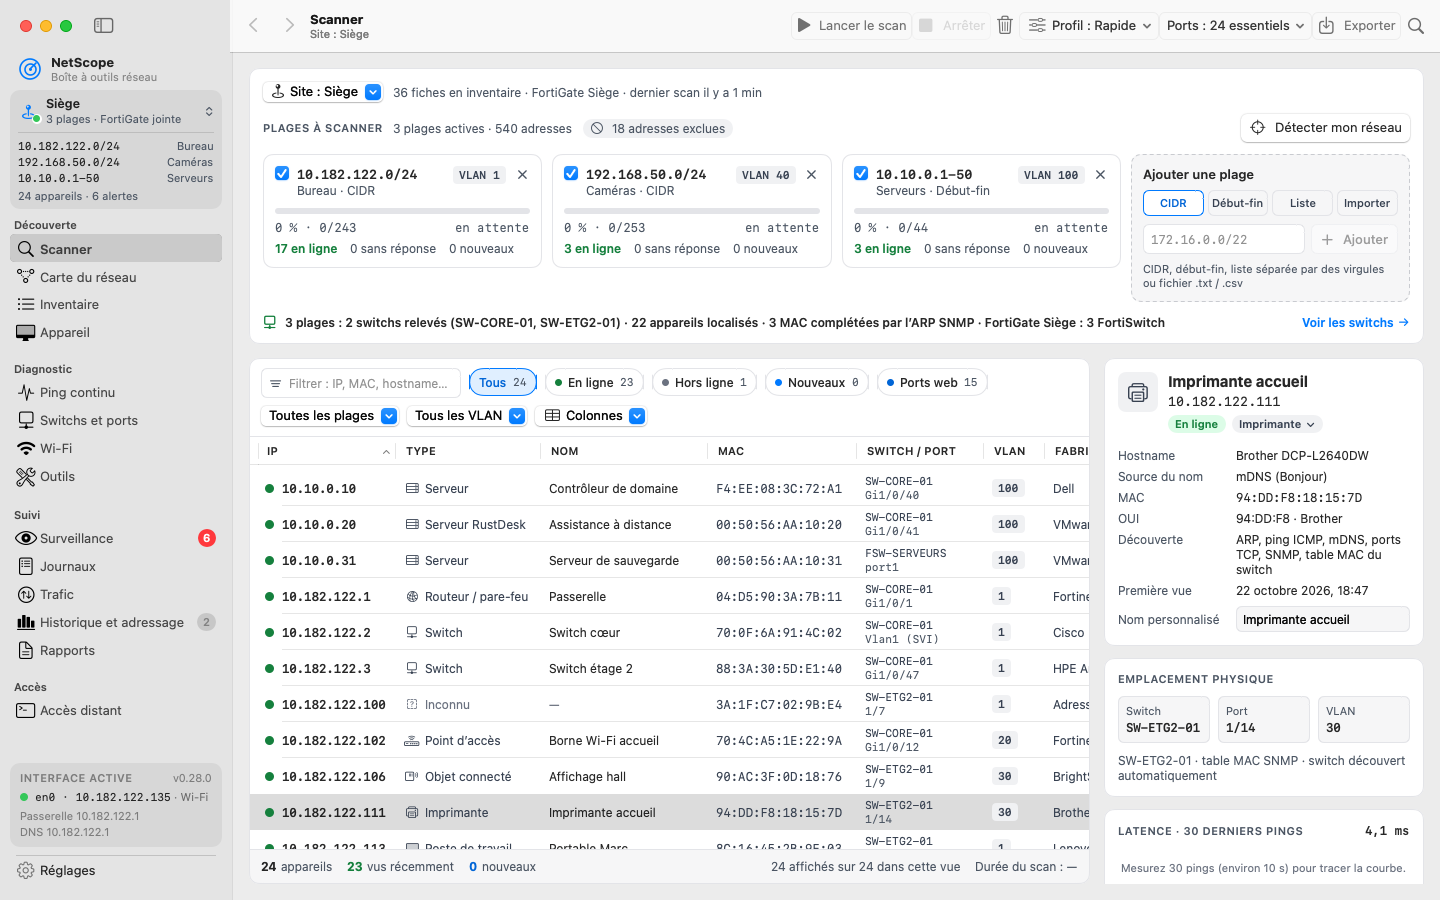
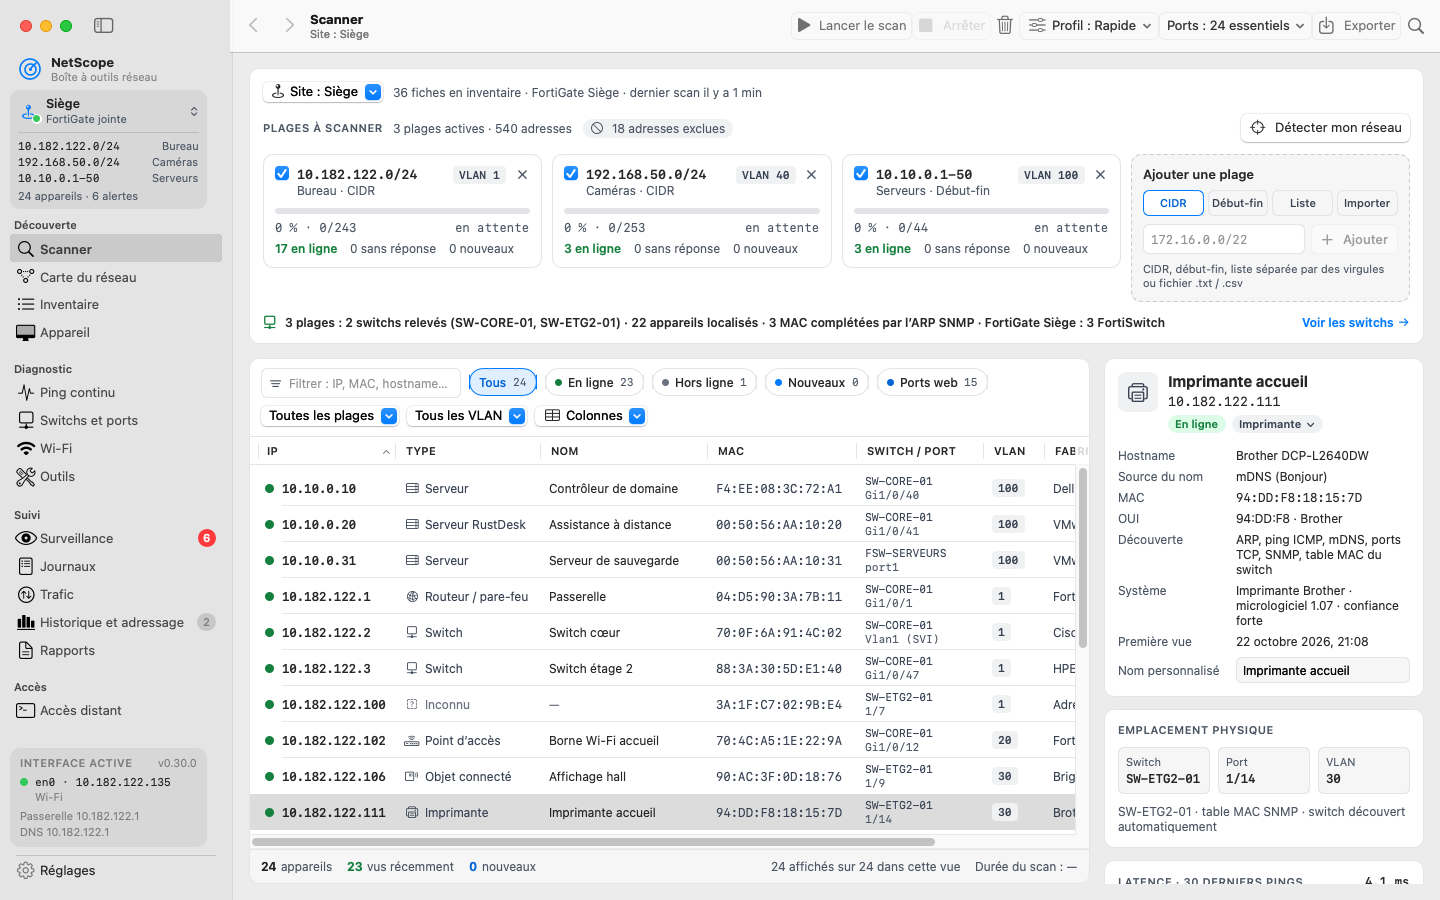
Version 0.30.0
Empreinte légère des services et du système (note 68), scan de ports UDP
ciblé (note 69), vérificateur de certificat TLS (note 70) et contrôleurs
UniFi, Omada et Meraki en lecture seule (note 77).

- Info.plist : 0.30.0 (41).
- CHANGELOG : section 0.30.0 avec ses limites connues.
- README : version et nouveautés de la 0.30.0.
- A-FAIRE : notes 68, 69, 70 et 77 livrées, priorités et index à jour.
- docs/capture.png refaite (ligne « Système » du panneau de détail).

diff --git a/docs/A-FAIRE.md b/docs/A-FAIRE.md
@@ -7,7 +7,7 @@
 
 ## Priorités (revues le 5 novembre 2026, réorganisées avec les notes 45 à 79 après l’analyse du marché)
 
-Notes 1 à 5 : livrées dans la 0.3.0 ; note 18 dans la 0.3.1 ; notes 8, 19, 20 et 9 dans la 0.4.0 ; types Console de jeu et Domotique dans la 0.4.1 ; notes 12, 21, 17 et 16 dans la 0.5.0 ; notes 15 et 14 dans la 0.6.0 ; notes 7 et 22 dans la 0.7.0 ; notes 13 et 23 dans la 0.8.0 ; note 24 dans la 0.9.0 ; note 25 dans la 0.10.0 ; notes 26 et 27 dans la 0.11.0 ; note 28 et correction de la Carte dans la 0.12.0 ; notes 34, 33, 31 et 36 dans la 0.13.0 ; notes 32, 30, 37 et 38 dans la 0.14.0 ; notes 49, 48, 45 et 52 dans la 0.15.0 ; notes 46 et 47, et correctif iCloud de Vitesse des disques, dans la 0.16.0 ; notes 29, 39 et 54 dans la 0.17.0 ; notes 50, 51, 53, 55 et 56 dans la 0.18.0 ; notes 42 et 10 dans la 0.20.0 ; notes 41 et 43, et la note 11 en partie (pause par cible, tableau MTR, écran vide), dans la 0.21.0 ; note 57 dans la 0.22.0 ; notes 35 et 60 dans la 0.23.0 ; erreurs récentes des ports dans la 0.23.1 ; notes 59, 73, 74 et 79, la partie « Trafic » de la note 78 et le navigateur SNMP dans la 0.25.0 ; notes 58, 65, 66 et 71, et les parties « Test MTU », « Ping continu », « Inventaire », « Wake-on-LAN », « Alertes » et « Accès distant » de la note 78 dans la 0.26.0 ; note 6 (RustDesk) dans la 0.26.1 ; tableau de bord du serveur RustDesk (note 6), « Ouvrir une fiche » et saisie à la main dans Appareil, et correctif des clients Wi-Fi de FortiOS 7.4.13 dans la 0.26.2 ; notes 62, 80, 81, 82 et 83 et le reste de la note 78 (Surveillance, Carte du réseau, Analyse, Wi-Fi ce Mac, Speedtest, iperf3, Capture de paquets, Rapports, Journaux, XMODEM/YMODEM, Vitesse des disques) dans la 0.27.0 ; note 84 dans la 0.27.1 ; correctif d’affichage de l’Accès distant (panneau de détails qui recouvrait la session et dépassait de la fenêtre, signalé par Dany le 5 novembre 2026) et fermeture de l’app à l’enregistrement d’une connexion dans la 0.27.2 ; note 85 (onglet « Assistance RustDesk ») dans la 0.27.3 ; notes 61, 72, 75 et 76 (demandées par Dany le 5 novembre 2026) dans la 0.28.0 (la 0.24.0, note 40, reste à faire).
+Notes 1 à 5 : livrées dans la 0.3.0 ; note 18 dans la 0.3.1 ; notes 8, 19, 20 et 9 dans la 0.4.0 ; types Console de jeu et Domotique dans la 0.4.1 ; notes 12, 21, 17 et 16 dans la 0.5.0 ; notes 15 et 14 dans la 0.6.0 ; notes 7 et 22 dans la 0.7.0 ; notes 13 et 23 dans la 0.8.0 ; note 24 dans la 0.9.0 ; note 25 dans la 0.10.0 ; notes 26 et 27 dans la 0.11.0 ; note 28 et correction de la Carte dans la 0.12.0 ; notes 34, 33, 31 et 36 dans la 0.13.0 ; notes 32, 30, 37 et 38 dans la 0.14.0 ; notes 49, 48, 45 et 52 dans la 0.15.0 ; notes 46 et 47, et correctif iCloud de Vitesse des disques, dans la 0.16.0 ; notes 29, 39 et 54 dans la 0.17.0 ; notes 50, 51, 53, 55 et 56 dans la 0.18.0 ; notes 42 et 10 dans la 0.20.0 ; notes 41 et 43, et la note 11 en partie (pause par cible, tableau MTR, écran vide), dans la 0.21.0 ; note 57 dans la 0.22.0 ; notes 35 et 60 dans la 0.23.0 ; erreurs récentes des ports dans la 0.23.1 ; notes 59, 73, 74 et 79, la partie « Trafic » de la note 78 et le navigateur SNMP dans la 0.25.0 ; notes 58, 65, 66 et 71, et les parties « Test MTU », « Ping continu », « Inventaire », « Wake-on-LAN », « Alertes » et « Accès distant » de la note 78 dans la 0.26.0 ; note 6 (RustDesk) dans la 0.26.1 ; tableau de bord du serveur RustDesk (note 6), « Ouvrir une fiche » et saisie à la main dans Appareil, et correctif des clients Wi-Fi de FortiOS 7.4.13 dans la 0.26.2 ; notes 62, 80, 81, 82 et 83 et le reste de la note 78 (Surveillance, Carte du réseau, Analyse, Wi-Fi ce Mac, Speedtest, iperf3, Capture de paquets, Rapports, Journaux, XMODEM/YMODEM, Vitesse des disques) dans la 0.27.0 ; note 84 dans la 0.27.1 ; correctif d’affichage de l’Accès distant (panneau de détails qui recouvrait la session et dépassait de la fenêtre, signalé par Dany le 5 novembre 2026) et fermeture de l’app à l’enregistrement d’une connexion dans la 0.27.2 ; note 85 (onglet « Assistance RustDesk ») dans la 0.27.3 ; notes 61, 72, 75 et 76 (demandées par Dany le 5 novembre 2026) dans la 0.28.0 ; notes 68, 69, 70 et 77 (demandées par Dany le 5 novembre 2026) dans la 0.30.0 (la note 40, en 0.31.0, reste à faire).
 
 1. **0.13.x à 0.22.x, retours d'essai** (0.8.1 : plantage de Vitesse des disques sur le NAS corrigé ; 0.9.0 : FortiGate essayée avec succès ; 0.10.0 : plusieurs FortiGate à essayer ; 0.11.0 : recherche multiple et FortiAP à essayer ; 0.12.0 : sites à essayer ; 0.13.0 : navigation et gros sites à essayer ; 0.14.0 : recherche de la Carte, téléphones IP, étendues DHCP et sauvegarde chiffrée à essayer ; 0.15.0 : choix du site, Switchs et Wi-Fi d'un autre site, Retour et nom d'utilisateur SSH à essayer ; 0.16.0 : clients Wi-Fi, fiche du client, historique du signal et diagnostic Wi-Fi à essayer sur de vraies bornes FortiAP ; 0.17.0 : relecture automatique, WAN et VPN, Trafic FortiView et analyse complète à essayer sur de vraies FortiGate ; 0.18.0 : FTP, FTPS, SFTP, TFTP, « Bloqué ici », NAS dans Vitesse des disques, export, import et synchronisation à essayer sur de vrais appareils et deux Mac ; 0.20.0 : rapport de suivi, rapports planifiés et Inventaire repensé à essayer sur les vrais sites ; 0.21.0 : firmware et licences, Syslog, traps SNMP, journaux de la FortiGate et pause par cible du Ping à essayer sur de vrais équipements ; 0.22.0 : terminal intégré SSH, Telnet et série, et session VNC intégrée à essayer sur de vrais équipements, câbles console et serveurs VNC ; 0.23.0 : journal de l’app, « Exporter un diagnostic » et fiche matériel automatique à essayer sur de vrais switchs, imprimantes et FortiGate ; 0.25.0 : SNMP v3, navigateur SNMP, graphes des ports et cycle PoE à essayer sur de vrais switchs, FortiSwitch et FortiGate, d’abord sur un port sans risque) : essais réels de la 0.3.x (localisation, DHCP, capture,
    notifications, VNC, mise à jour), de la 0.4.0 (menus de colonnes, type, ports, sombre) et
@@ -130,8 +130,11 @@ Notes 1 à 5 : livrées dans la 0.3.0 ; note 18 dans la 0.3.1 ; notes 8, 19, 20 
       d’essai sur une vraie FortiGate, un site et un scan restent à faire et seront corrigés au
       fil de l’eau en 0.23.x.
     - **0.29.0, synchronisation complète entre les Mac** : note 86 (demande de Dany, 5 novembre 2026).
-    - **0.30.0, empreinte, UDP, TLS et autres contrôleurs** : notes 68, 69, 70 et 77 (demandées
-      par Dany le 5 novembre 2026).
+    - ~~**0.30.0, empreinte, UDP, TLS et autres contrôleurs**~~ (livrée le 5 novembre 2026) :
+      **Livrée dans la 0.30.0.** Notes 68 (empreinte légère des services et du système), 69 (scan
+      de ports UDP ciblé), 70 (vérificateur de certificat TLS) et 77 (contrôleurs UniFi, Omada et
+      Meraki), demandées par Dany le 5 novembre 2026. Essais réels à faire (imprimantes, NAS,
+      pare-feu, vrais services UDP, certificats, vrais contrôleurs).
     - **0.31.0, sauvegarde des configurations** (ex-0.24.0, puis 0.29.0 et 0.30.0, renumérotée le 5 novembre
       2026 ; reprend la 0.19.0) : note 40 (FortiGate par
       l’API, puis switchs en SSH grâce au terminal de la 0.22.0) ; la note 61 (export de la carte
@@ -195,7 +198,7 @@ Notes 1 à 5 : livrées dans la 0.3.0 ; note 18 dans la 0.3.1 ; notes 8, 19, 20 
       la 0.25.0 ; reste à décider : avancer la note 66 (tunnels SSH) en 0.24.0 si le VNC non chiffré ou
       le réseau FortiLink posent problème pendant les essais (livrée dans la 0.26.0).
     - **Plus tard** : note 13 (anglais) ; la note 11 est retirée par Dany le 5 novembre 2026 ; les notes 68, 69, 70 et 77
-      passent en 0.30.0, et les notes 72, 75 et 76 sont livrées dans la 0.28.0 ; idées
+      sont livrées dans la 0.30.0, et les notes 72, 75 et 76 sont livrées dans la 0.28.0 ; idées
       d’un cran en dessous : relevé Wi-Fi sur plan, qualité VoIP (MOS) avec les décodeurs
       SIP/RTP, toner des imprimantes, test de câble, scan d’un VLAN tagué, retour à la version
       précédente.
@@ -204,14 +207,14 @@ Notes 1 à 5 : livrées dans la 0.3.0 ; note 18 dans la 0.3.1 ; notes 8, 19, 20 
 
 | Module | Livrées | À venir |
 | --- | --- | --- |
-| Scanner et sites | 18, 19, 20, 26, 28, 48, 49, 81, 82 (0.27.0), 72 (0.28.0) | 68, 69 (0.30.0), 63 (0.32.0), IPv6 (0.33.0) |
+| Scanner et sites | 18, 19, 20, 26, 28, 48, 49, 81, 82 (0.27.0), 72 (0.28.0), 68, 69 (0.30.0) | 63 (0.32.0), IPv6 (0.33.0) |
 | Navigation entre les modules | 31, 33, 34, 36, 45 | — |
-| Switchs et ports, Fortinet | 12, 24, 25, 29, 39, 41, 54, 59, 73, 74, navigateur SNMP / MIB walk (0.25.0), 83 (0.27.0), 75 (0.28.0) | 77 (0.30.0), 40 (0.31.0) |
+| Switchs et ports, Fortinet | 12, 24, 25, 29, 39, 41, 54, 59, 73, 74, navigateur SNMP / MIB walk (0.25.0), 83 (0.27.0), 75 (0.28.0), 77 (0.30.0) | 40 (0.31.0) |
 | Wi-Fi | 1, 27, 46, 47, 71 (0.26.0), 80 et 78 : meilleur canal, relevé (0.27.0) | — |
 | Carte du réseau | 32, 78 : liens LLDP, VLAN, disposition (0.27.0), 61 (0.28.0) | — |
 | Inventaire | 8, 10, 30 | 60 (0.23.0) |
 | Ping continu | 11 (en partie, 0.21.0 ; reste retiré par Dany), 65 (0.26.0) | — |
-| Boîte à outils | 2, 7, 14, 15, 16, 17, 21, 22, 37, 51, 53, 55, 58 (0.26.0) | 70 (0.30.0) |
+| Boîte à outils | 2, 7, 14, 15, 16, 17, 21, 22, 37, 51, 53, 55, 58 (0.26.0), 70 (0.30.0) | — |
 | Accès distant | 5, 50, 52, 57, 66 (0.26.0), 6 (0.26.1 ; tableau de bord du serveur, 0.26.2), 85 (0.27.3) | 67 (0.34.0) |
 | Surveillance, alertes et journaux | 3, 23, 43, 62 et 78 (0.27.0), 76 (0.28.0) | 64 (0.32.0) |
 | Rapports | 4, 42, 62 et 78 : SMTP, DOCX (0.27.0), 61 (0.28.0) | — |
@@ -1319,6 +1322,8 @@ Terminal » et « Partage d'écran » restent en secours dans le menu de « Conn
 
 ## 68. Empreinte légère des services et du système — 0.30.0 (analyse du marché, demandée par Dany le 5 novembre 2026)
 
+**Livrée dans la 0.30.0** (5 novembre 2026) : système, produit et version déduits des bannières (SSH, FTP, SMTP, Telnet, VNC), des en-têtes HTTP et du titre, du certificat TLS, du dialecte SMB2, du sysDescr et du TTL, avec confiance et indices ; carte « Système et versions » de la fiche Appareil, colonnes « Système » et « Versions » du Scanner, type plus juste quand l’empreinte est sûre (jamais à la place d’un type choisi à la main), tableau « Versions visibles et services en clair » du rapport Sécurité ; sans Nmap ni base de CVE ; essai réel à faire sur des imprimantes, NAS, pare-feu et serveurs variés.
+
 - **Ce que ça apporte** : type et système plus justes, versions visibles dans le rapport
   Sécurité, sans Nmap : en-tête HTTP « Server », certificat TLS, dialecte SMB, sysDescr, TXT
   mDNS, TTL. Pas de base de CVE ni de détection d’OS façon Nmap (voir note 79).
@@ -1327,12 +1332,16 @@ Terminal » et « Partage d'écran » restent en secours dans le menu de « Conn
 
 ## 69. Scan de ports UDP ciblé — 0.30.0 (analyse du marché, demandée par Dany le 5 novembre 2026)
 
+**Livrée dans la 0.30.0** (5 novembre 2026) : vraie requête par protocole (DNS 53, TFTP 69, NTP 123, NetBIOS 137, SNMP 161, IPMI 623, SSDP 1900, SIP 5060, mDNS 5353), états ouvert, ouvert|filtré, fermé ou filtré ; section « Services UDP » de la fiche Appareil, « UDP ciblé… » du Scanner, choix TCP ou UDP ciblé dans la Boîte à outils ; constats SNMP public, IPMI, SIP, NTP modes 6 et 7, TFTP ; communauté SNMP du site, « public » sur choix ou aucune ; plages exclues jamais sondées ; essai réel à faire sur de vrais services UDP.
+
 - **Ce que ça apporte** : repérer un SNMP ouvert, un SIP ou un IPMI exposés. Charge propre à
   chaque protocole : DNS 53, NTP 123, SNMP 161, TFTP 69, SIP 5060, IPMI 623, mDNS.
 - **Référence du marché** : Nmap, SoftPerfect, NetScanTools.
 - **Effort** : petit à moyen.
 
 ## 70. Vérificateur de certificat TLS — 0.30.0 (analyse du marché, demandée par Dany le 5 novembre 2026)
+
+**Livrée dans la 0.30.0** (5 novembre 2026) : outil « Certificat TLS » de la Boîte à outils (chaîne, SAN, validité et jours restants, clé, signature, empreintes SHA-256, verdict de macOS), versions TLS 1.0 à 1.3 acceptées, STARTTLS pour SMTP, IMAP et POP3, SNI au choix, « Vérifier tous les HTTPS du site » et sonde de Surveillance « Certificat TLS (jours restants) » ; essai réel à faire sur de vrais serveurs Web et de courriel.
 
 - **Ce que ça apporte** : trouver les pare-feu, portails, imprimantes et NAS aux certificats
   expirés. Outil de la Boîte à outils (chaîne, SAN, expiration, versions TLS) qui réutilise la
@@ -1398,6 +1407,8 @@ Terminal » et « Partage d'écran » restent en secours dans le menu de « Conn
 - **Effort** : petit.
 
 ## 77. Autres contrôleurs : UniFi, Omada, Meraki — 0.30.0 (analyse du marché, demandée par Dany le 5 novembre 2026)
+
+**Livrée dans la 0.30.0** (5 novembre 2026) : Réglages › Sites › Contrôleur (UniFi Network, TP-Link Omada, Cisco Meraki), lecture seule, secret au Trousseau, certificat par empreinte, « Tester » ; switchs « via UniFi / Omada / Meraki » dans Switchs et ports (façade, ports, PoE, VLAN, voisins), bornes et clients Wi-Fi dans Wi-Fi, switch, port et borne dans le Scanner ; aucune action sur les ports de ces switchs ; essai réel à faire sur de vrais contrôleurs.
 
 - **Ce que ça apporte** : les clients sans Fortinet retrouvent switchs, bornes et clients Wi-Fi.
 - **Référence du marché** : Domotz, WiFiman, Meraki Dashboard.

diff --git a/CHANGELOG.md b/CHANGELOG.md
@@ -1,5 +1,101 @@
 # Changements
 
+## 0.30.0 — 2026-11-05
+
+NetScope reconnaît mieux ce qui tourne sur chaque appareil (système, produit et version, sans
+Nmap), sonde les ports UDP avec de vraies requêtes de chaque protocole, vérifie les certificats
+TLS de tout un site, et lit les contrôleurs UniFi, Omada et Meraki pour les clients qui ne sont
+pas en Fortinet.
+
+### Ajouté
+- **Empreinte légère des appareils** : système, produit et version déduits des bannières (SSH,
+  FTP, SMTP, Telnet, VNC), des en-têtes HTTP et du titre de page, du certificat TLS, du dialecte
+  SMB, du sysDescr SNMP et du TTL, avec une confiance (faible, moyenne ou forte) et les indices
+  qui la justifient.
+- **Fiche Appareil, carte « Système et versions »** dans l’Aperçu (système, confiance, type
+  indiqué, versions annoncées, services en clair, indices) et colonne « Produit et version »
+  dans Ports et services.
+- **Scanner** : colonnes facultatives « Système » et « Versions » (menu Colonnes) et ligne
+  « Système » dans le panneau de détail.
+- **Rapport Sécurité** : tableau « Versions visibles et services en clair » (Telnet, FTP, HTTP,
+  SMB1, versions annoncées).
+- **Scan de ports UDP ciblé** : chaque port reçoit une vraie requête de son protocole (DNS 53,
+  TFTP 69, NTP 123, NetBIOS 137, SNMP 161, IPMI 623, SSDP 1900, SIP 5060, mDNS 5353) au lieu
+  d’un paquet vide. Les états sont ouvert, ouvert|filtré, fermé (refus ICMP) ou filtré.
+- **Fiche Appareil, section « Services UDP »** dans Ports et services (version DNS, strate NTP,
+  sysDescr SNMP, User-Agent SIP, capacités IPMI, services mDNS…), avec export CSV ; le clic droit
+  sur « Scanner les ports » lance l’UDP ciblé.
+- **Scanner, « Scanner les ports › UDP ciblé… »** : une feuille avec les résultats de l’appareil
+  choisi. Dans la Boîte à outils, l’outil Scan de ports propose « TCP » ou « UDP ciblé », avec la
+  commande équivalente et l’historique des résultats.
+- **Constats de sécurité UDP** : SNMP « public » ouvert, IPMI exposé ou anonyme, SIP exposé, NTP
+  mode 6 (ntpq) et mode 7 (monlist, amplification), SNMP v2c en clair, TFTP joignable.
+- **Outil « Certificat TLS »** dans la Boîte à outils : chaîne complète envoyée par le serveur,
+  noms couverts (SAN), dates de validité et jours restants, clé (algorithme et taille),
+  signature, empreintes SHA-256 et verdict de confiance de macOS avec sa raison.
+- **Versions TLS acceptées** (TLS 1.0 à 1.3, chacune tentée seule) et suite négociée ; TLS 1.0
+  et 1.1 encore acceptés sont signalés comme obsolètes.
+- **Serveurs de courriel en STARTTLS** (SMTP 25 et 587, IMAP 143, POP3 110), en plus de HTTPS,
+  8443, SMTPS, IMAPS, POP3S et LDAPS ; nom SNI au choix.
+- **Problèmes signalés clairement** : nom qui ne correspond pas, certificat auto-signé, expiré ou
+  qui expire bientôt (seuil réglable de 7 à 90 jours), chaîne incomplète, clé ou signature
+  faible.
+- **« Vérifier tous les HTTPS du site »** : d’un clic, tous les appareils du dernier scan avec
+  443 ou 8443 ouvert sont vérifiés ; les certificats expirés ou bientôt expirés sont listés en
+  premier.
+- **Surveillance, sonde « Certificat TLS (jours restants) »** : une alerte avant l’expiration et
+  une panne une fois le certificat expiré.
+- **Réglages › Sites › Contrôleur** : ajouter le contrôleur UniFi Network, TP-Link Omada ou Cisco
+  Meraki d’un site, en lecture seule. Le secret (clé d’API, mot de passe ou client secret) est
+  gardé au Trousseau, le certificat est accepté par son empreinte, et un bouton « Tester »
+  vérifie l’accès.
+- **Switchs et ports** montre les switchs gérés par UniFi, Omada ou Meraki (« via UniFi »,
+  « via Omada », « via Meraki ») : façade, ports, PoE, VLAN, voisins et appareils branchés, avec
+  un bandeau du contrôleur et le bouton « Relire ».
+- **Wi-Fi** gagne une partie pour le contrôleur du site : bornes (canaux, clients, utilisation,
+  switch et port où elles sont branchées) et clients Wi-Fi (SSID, borne, bande, signal).
+- **Scanner** : switch et port des appareils filaires lus par ces contrôleurs, et borne des
+  clients Wi-Fi.
+- **Démonstration** : empreintes, réponses UDP, certificats et contrôleurs fictifs, sans aucun
+  envoi réel sur le réseau.
+
+### Modifié
+- **Scan de ports, case « Détection de services »** : lit aussi le certificat TLS des ports
+  chiffrés et fait la négociation SMB2 sur le port 445 (dialecte, signature exigée, Samba), sans
+  session ni authentification ; produit et version s’affichent dans le tableau.
+- **Type d’appareil plus juste** quand l’empreinte est sûre (certificat Fortinet, en-tête
+  d’imprimante, sysDescr…), sans jamais remplacer un type choisi à la main ni ce que dit la
+  découverte SNMP.
+- **Communauté SNMP au choix** pour le scan UDP : celle du site (gardée au Trousseau),
+  « public » seulement si vous la choisissez, ou aucune (découverte SNMP v3 sans secret). Les
+  tests NTP des modes 6 et 7 se désactivent dans le menu « Sondes ».
+- **Sondes lancées seulement sur clic** : les adresses des plages exclues du site actif ne sont
+  jamais sondées.
+
+### Corrigé
+- **Itinérance Wi-Fi** des clients vus par un contrôleur UniFi, Omada ou Meraki : elle ne lève
+  plus d’alerte de port.
+- **Sécurité** : aucune action sur les ports (coupure ou cycle PoE) n’est proposée pour un switch
+  géré par UniFi, Omada ou Meraki ; NetScope lit ces contrôleurs sans jamais rien modifier.
+
+### Limites connues
+- L’empreinte est légère : elle ne lit que ce que les services annoncent d’eux-mêmes. Ce n’est
+  pas une détection de système façon Nmap, et il n’y a aucune base de vulnérabilités (CVE) : une
+  version affichée n’est pas jugée vulnérable ou non. Un service qui masque sa bannière reste
+  « inconnu », et le TTL ne donne qu’un indice faible.
+- En UDP, l’absence de réponse ne prouve rien : « ouvert|filtré » veut dire qu’on ne sait pas.
+  Seuls les ports listés reçoivent une requête propre à leur protocole ; ce n’est pas un balayage
+  UDP complet.
+- Le verdict de confiance du certificat est celui de macOS sur ce Mac : une autorité interne non
+  installée dans le Trousseau rend une chaîne « non approuvée ».
+- Les contrôleurs UniFi, Omada et Meraki sont lus en lecture seule ; les données dépendent de la
+  version du contrôleur et des droits du compte ou de la clé. Meraki passe par l’API infonuagique
+  (accès Internet requis).
+- Testé sur des données de démonstration et des réponses recopiées seulement ; essais réels à
+  faire : imprimantes, NAS, pare-feu et serveurs variés pour l’empreinte, vrais services UDP
+  (SNMP, NTP, SIP, IPMI), certificats de serveurs Web et de courriel, et vrais contrôleurs UniFi,
+  Omada et Meraki.
+
 ## 0.28.0 — 2026-11-05
 
 La carte du réseau s’exporte enfin en livrable pour le client (PNG, PDF, SVG, draw.io) et entre

diff --git a/README.md b/README.md
@@ -4,7 +4,7 @@
 sur plusieurs plages, dit sur quel switch et quel port chacun est branché, puis diagnostique,
 surveille, documente et ouvre une session à distance, site par site, dans une seule fenêtre.
 
-[![Version](https://img.shields.io/badge/version-0.28.0-blue)](https://github.com/mdany75/NetScope/releases/latest)
+[![Version](https://img.shields.io/badge/version-0.30.0-blue)](https://github.com/mdany75/NetScope/releases/latest)
 [![macOS](https://img.shields.io/badge/macOS-14%2B-lightgrey?logo=apple)](#installation)
 [![Licence](https://img.shields.io/badge/licence-MIT-green)](LICENSE)
 
@@ -47,7 +47,10 @@ surveille, documente et ouvre une session à distance, site par site, dans une s
   0.27.3 donne à l’assistance RustDesk son propre onglet, avec l’historique complet des
   sessions dans un tableau ; la 0.28.0 exporte la carte du réseau (PNG, PDF, SVG, draw.io) et
   l’ajoute aux rapports, reçoit les flux NetFlow, sFlow et IPFIX de toute marque dans Trafic,
-  liste les partages SMB d’un hôte et envoie les alertes sur téléphone par ntfy ou Pushover.
+  liste les partages SMB d’un hôte et envoie les alertes sur téléphone par ntfy ou Pushover ;
+  la 0.30.0 reconnaît le système et les versions des services sans Nmap, sonde les ports UDP
+  avec de vraies requêtes, vérifie les certificats TLS (seul ou tout un site) et lit en lecture
+  seule les contrôleurs UniFi, Omada et Meraki.
 
 > **État du projet** : NetScope est en développement actif (0.x). Les fonctions réseau
 > (FortiGate, FortiAP, SNMP, Syslog, sessions SSH, Telnet, série et VNC) sont testées sur des
